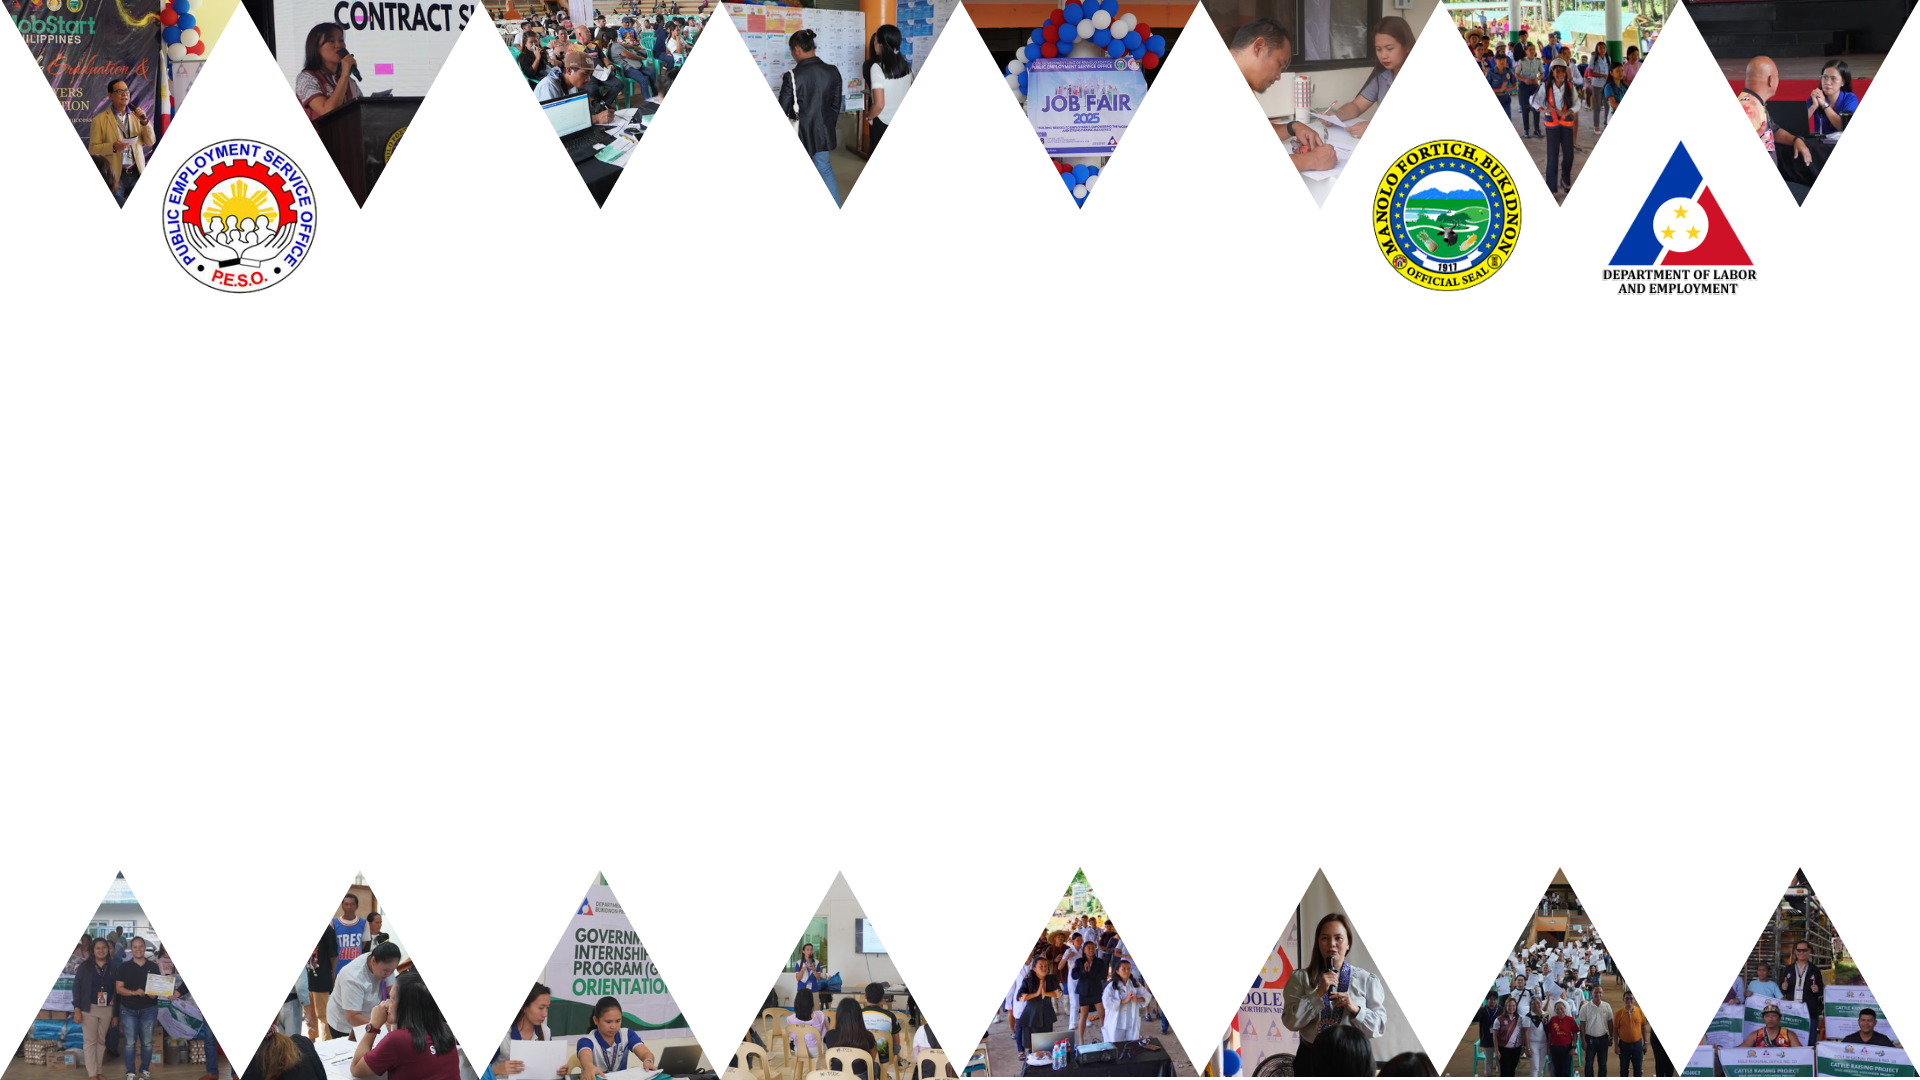
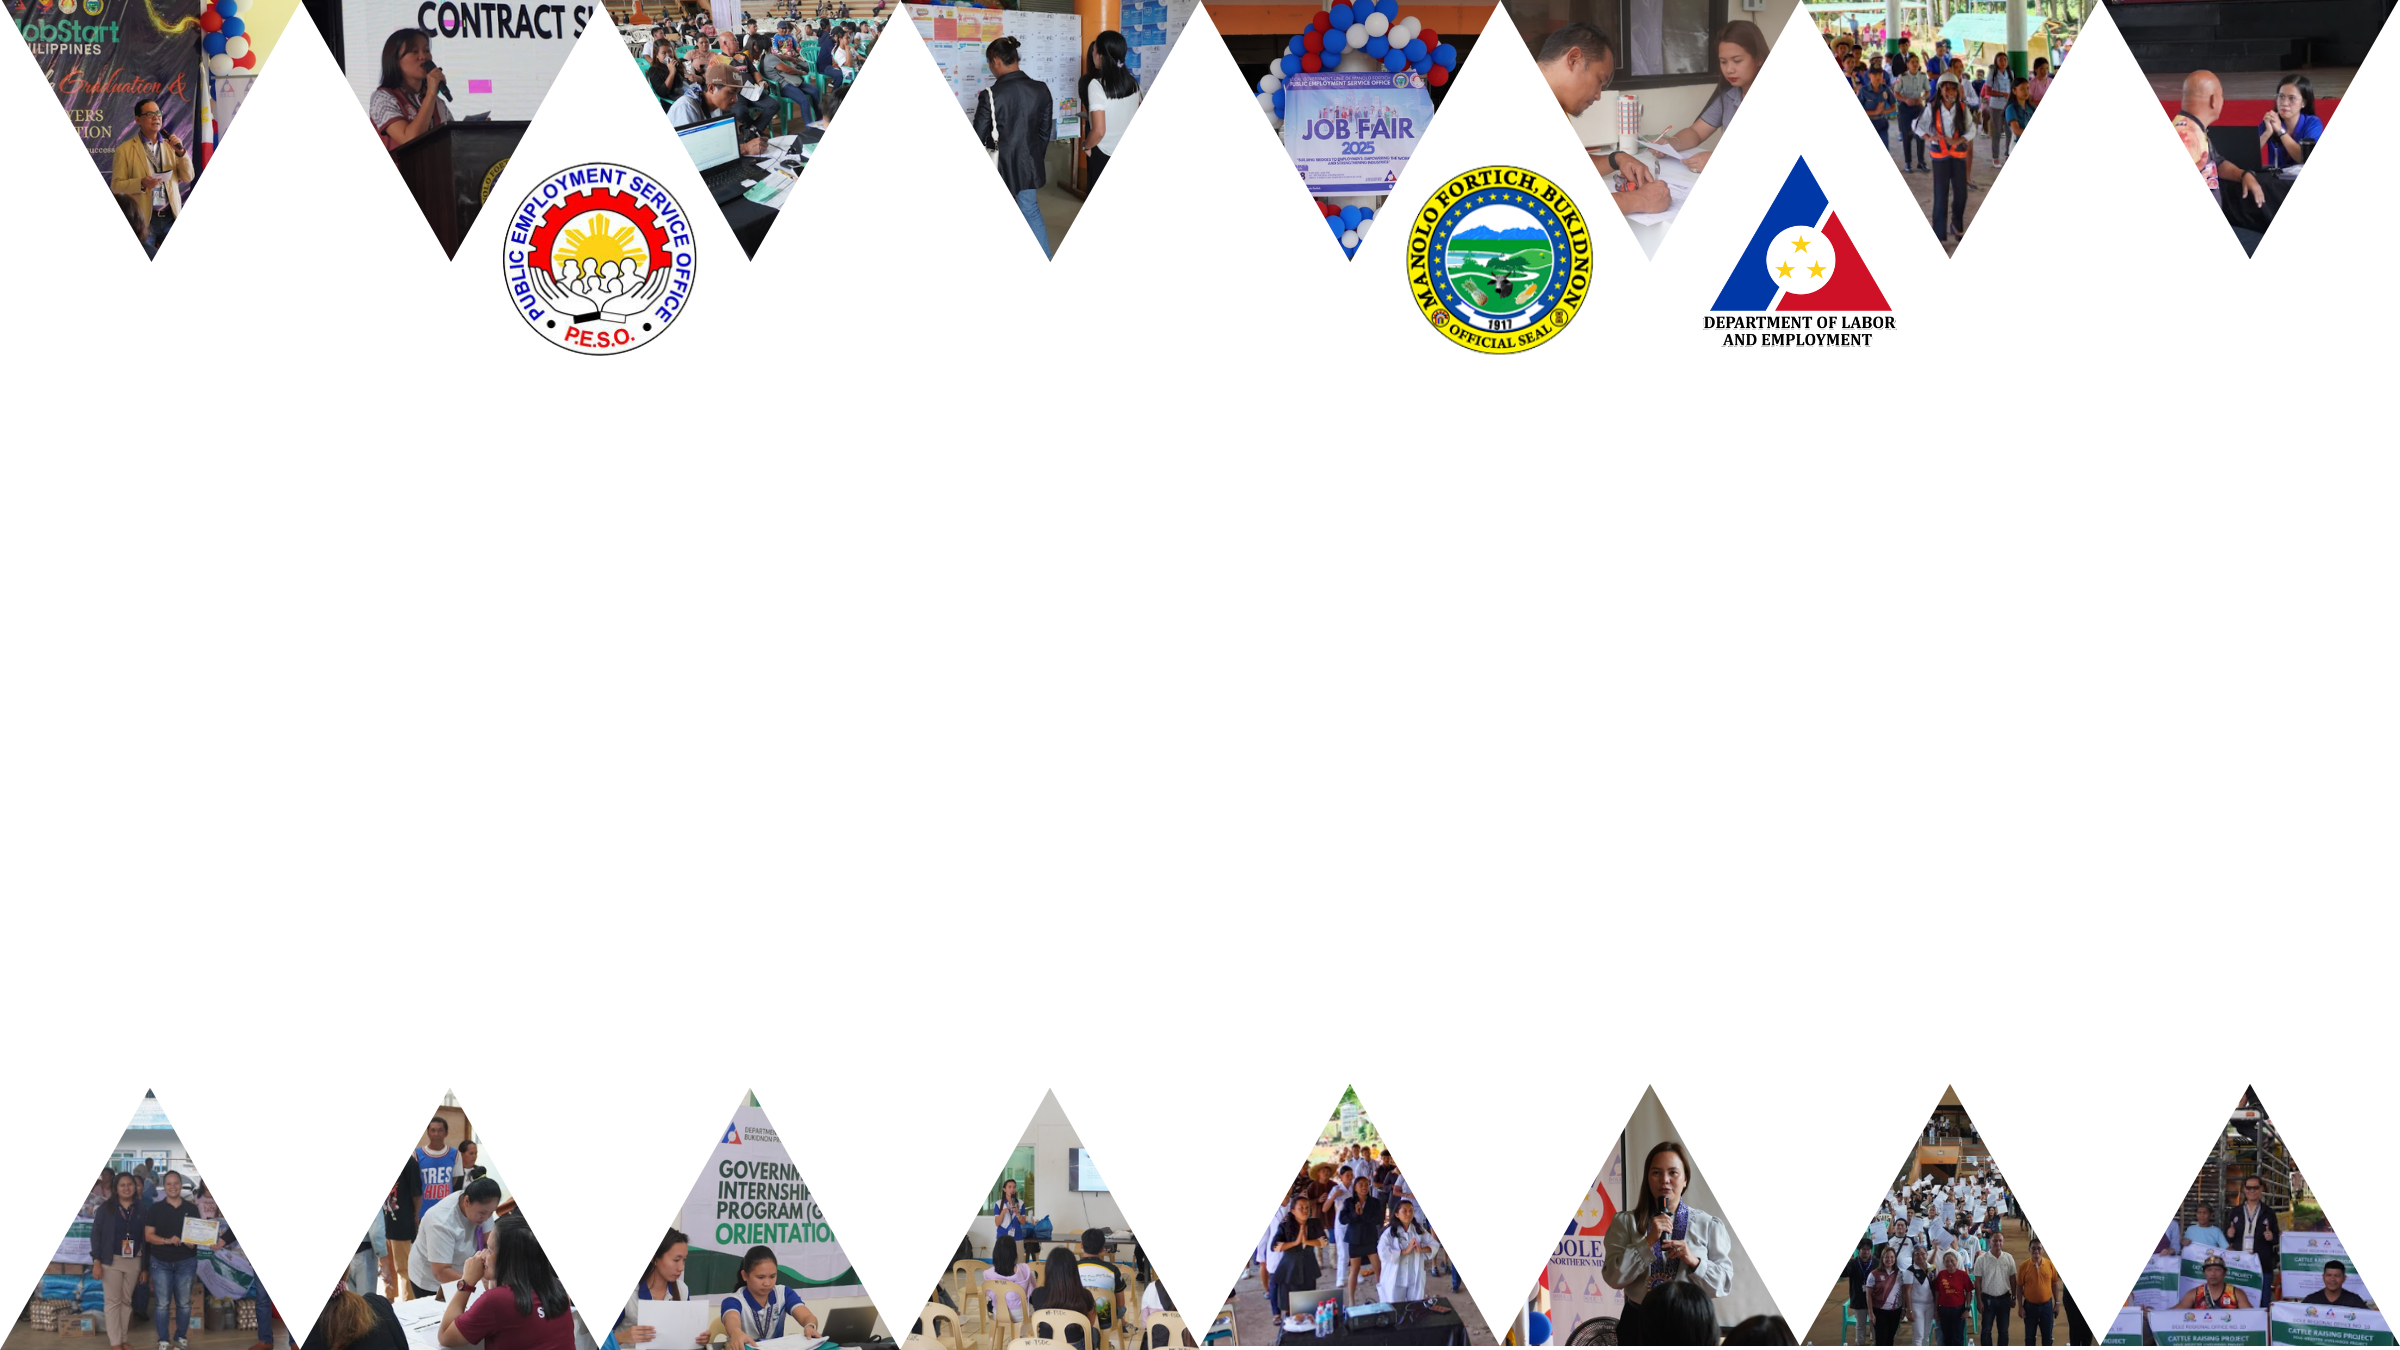
initial landing background

Changed region(s): [[0.5625, 0.1222, 0.8125, 0.275], [0.0625, 0.1222, 0.3125, 0.275], [0.8125, 0.1222, 0.9062, 0.275]]

diff --git a/resources/views/welcome.blade.php b/resources/views/welcome.blade.php
@@ -42,8 +42,28 @@
                 justify-content: flex-end !important;
             }
 
+            .peso-hero {
+                background-image: url('/images/background-desktop.png'), url('/images/background.png') !important;
+                background-size: contain !important;
+                background-position: center top !important;
+                background-repeat: no-repeat !important;
+                aspect-ratio: 16 / 9;
+                height: auto !important;
+                min-height: 0 !important;
+            }
+
+            @media (max-width: 1024px) {
+                .peso-hero {
+                    background-image: url('/images/background-tablet.png'), url('/images/background.png') !important;
+                    background-size: cover !important;
+                    background-position: center top !important;
+                    height: calc(100svh - 74px) !important;
+                    min-height: 520px !important;
+                }
+            }
+
             .peso-hero-content {
-                padding-top: clamp(140px, 16vh, 220px) !important;
+                padding-top: clamp(86px, 10vw, 150px) !important;
                 align-items: flex-start !important;
             }
 
@@ -117,6 +137,14 @@
             }
 
             @media (max-width: 800px) {
+                .peso-hero {
+                    background-image: url('/images/background-mobile.png'), url('/images/background.png') !important;
+                    background-size: cover !important;
+                    height: calc(100svh - 74px) !important;
+                    min-height: 480px !important;
+                    background-position: 58% center !important;
+                }
+
                 .peso-hero-content {
                     padding-top: 130px !important;
                 }
